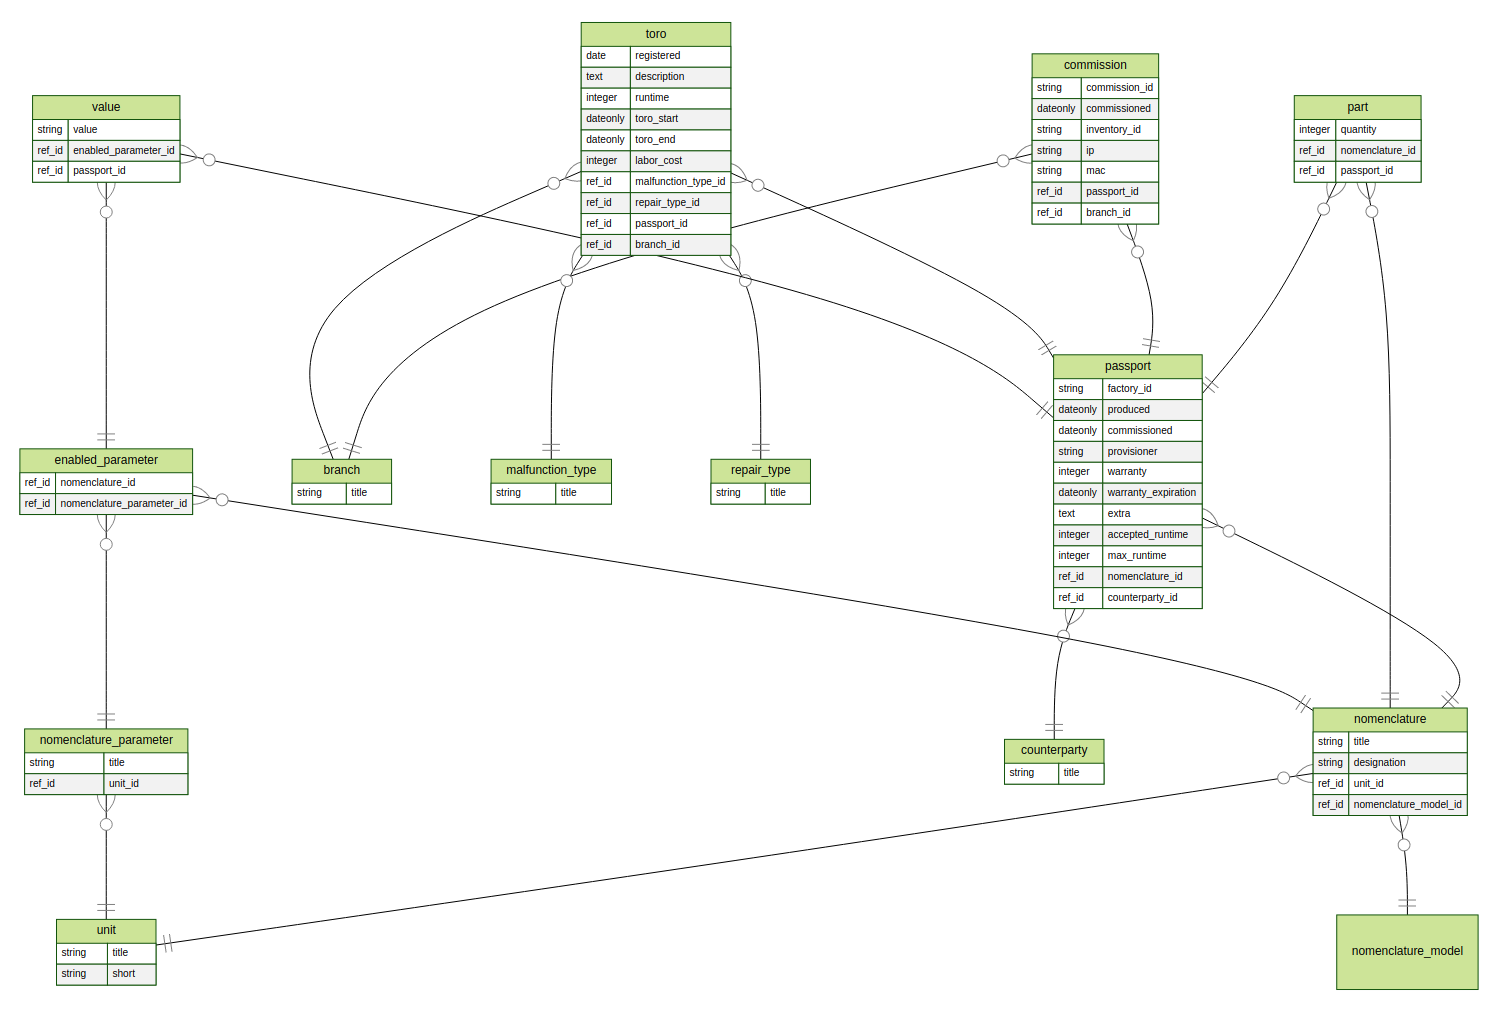
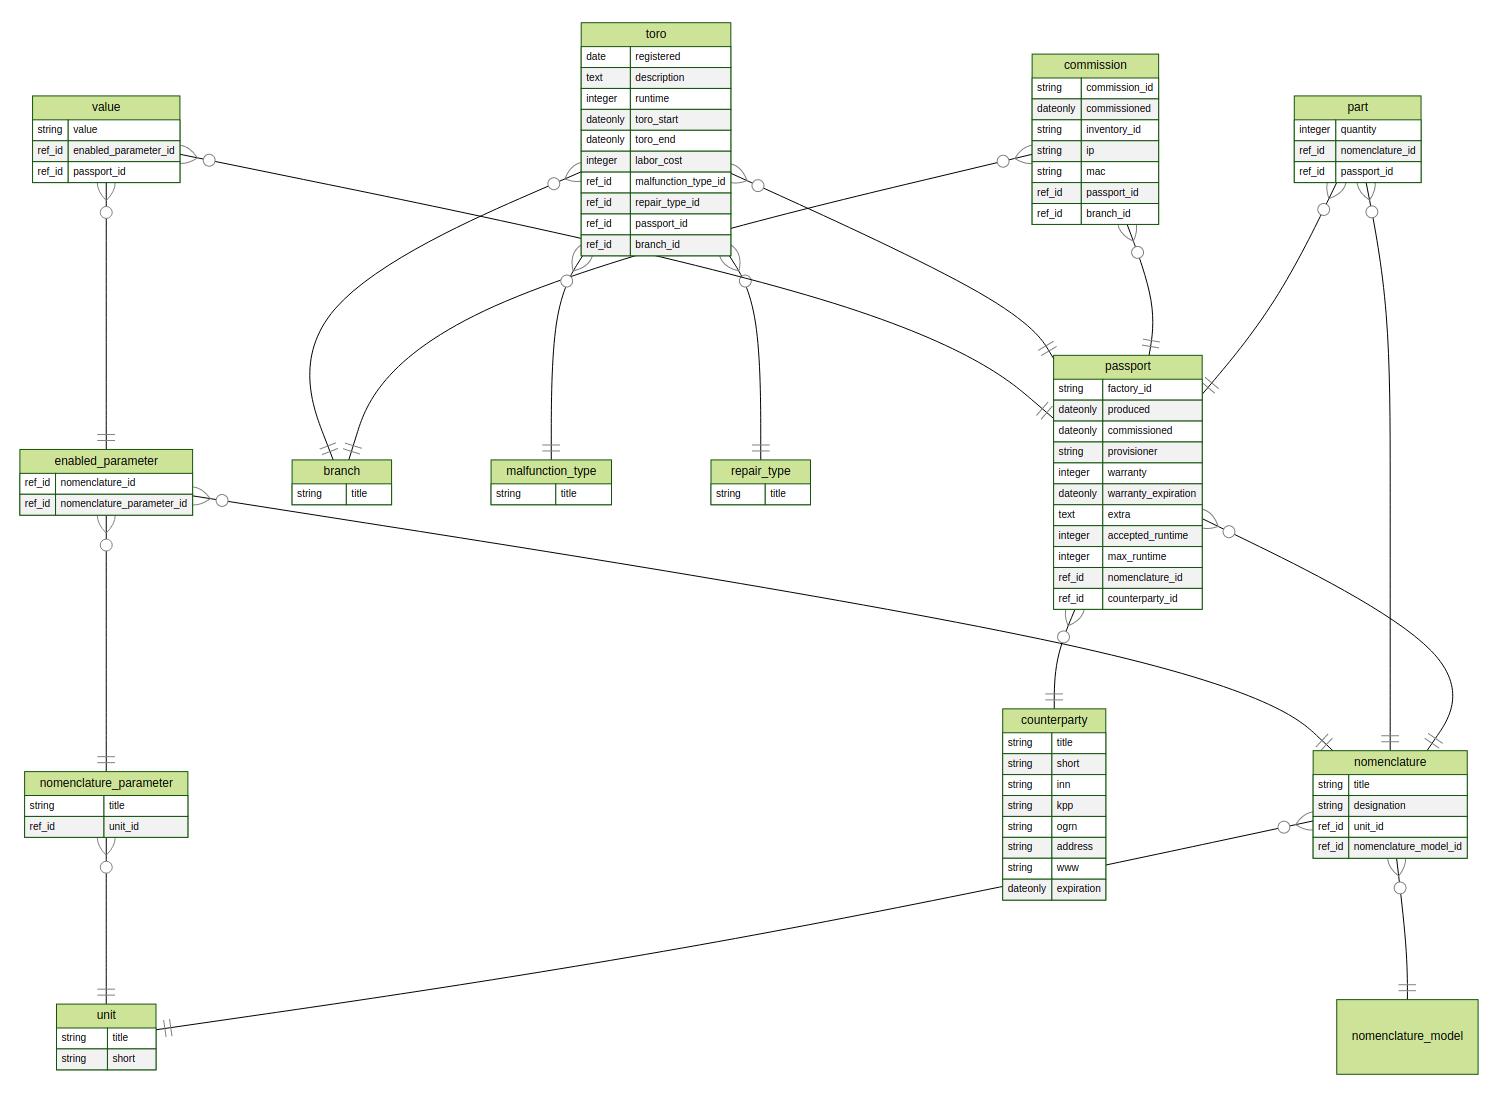
added fields for counterparty

diff --git a/src/db/models/counterparty.js b/src/db/models/counterparty.js
@@ -22,6 +22,50 @@ module.exports = (sequelize, DataTypes) => {
         notEmpty: true
       }
     },
+    short: {
+      type: DataTypes.STRING,
+
+
+    },
+    inn: {
+      type: DataTypes.STRING,
+
+      allowNull: false,
+      validate: {
+        notEmpty: true
+      }
+    },
+    kpp: {
+      type: DataTypes.STRING,
+
+      allowNull: false,
+      validate: {
+        notEmpty: true
+      }
+    },
+    ogrn: {
+      type: DataTypes.STRING,
+
+      allowNull: false,
+      validate: {
+        notEmpty: true
+      }
+    },
+    address: {
+      type: DataTypes.STRING,
+
+
+    },
+    www: {
+      type: DataTypes.STRING,
+
+
+    },
+    expiration: {
+      type: DataTypes.DATEONLY,
+
+
+    },
 
   }, {
     sequelize,

diff --git a/src/db/migrations/20210714131829-conterparty.js b/src/db/migrations/20210714131829-conterparty.js
@@ -10,7 +10,43 @@ module.exports = {
       },
       title: {
         allowNull: false,
+        unique: true,
         type: Sequelize.STRING
+      },
+      short: {
+
+
+        type: Sequelize.STRING
+      },
+      inn: {
+        allowNull: false,
+
+        type: Sequelize.STRING
+      },
+      kpp: {
+        allowNull: false,
+
+        type: Sequelize.STRING
+      },
+      ogrn: {
+        allowNull: false,
+
+        type: Sequelize.STRING
+      },
+      address: {
+
+
+        type: Sequelize.STRING
+      },
+      www: {
+
+
+        type: Sequelize.STRING
+      },
+      expiration: {
+
+
+        type: Sequelize.DATEONLY
       },
 
 

diff --git a/src/db/migrations/20210615121939-create-unit.js b/src/db/migrations/20210615121939-create-unit.js
@@ -10,10 +10,12 @@ module.exports = {
       },
       title: {
         allowNull: false,
+        unique: true,
         type: Sequelize.STRING
       },
       short: {
         allowNull: false,
+        unique: true,
         type: Sequelize.STRING
       },
 

diff --git a/src/db/migrations/20210615121940-create-nomenclature-class.js b/src/db/migrations/20210615121940-create-nomenclature-class.js
@@ -10,6 +10,7 @@ module.exports = {
       },
       title: {
         allowNull: false,
+        unique: true,
         type: Sequelize.STRING
       },
 

diff --git a/src/db/migrations/20210702120802-create-nomenclature-parameter.js b/src/db/migrations/20210702120802-create-nomenclature-parameter.js
@@ -10,6 +10,7 @@ module.exports = {
       },
       title: {
         allowNull: false,
+        unique: true,
         type: Sequelize.STRING
       },
 

diff --git a/src/db/migrations/20210714131814-branch.js b/src/db/migrations/20210714131814-branch.js
@@ -10,6 +10,7 @@ module.exports = {
       },
       title: {
         allowNull: false,
+        unique: true,
         type: Sequelize.STRING
       },
 

diff --git a/src/db/migrations/20210714131850-malfunction_type.js b/src/db/migrations/20210714131850-malfunction_type.js
@@ -10,6 +10,7 @@ module.exports = {
       },
       title: {
         allowNull: false,
+        unique: true,
         type: Sequelize.STRING
       },
 

diff --git a/src/db/migrations/20210714131857-repair_type.js b/src/db/migrations/20210714131857-repair_type.js
@@ -10,6 +10,7 @@ module.exports = {
       },
       title: {
         allowNull: false,
+        unique: true,
         type: Sequelize.STRING
       },
 
